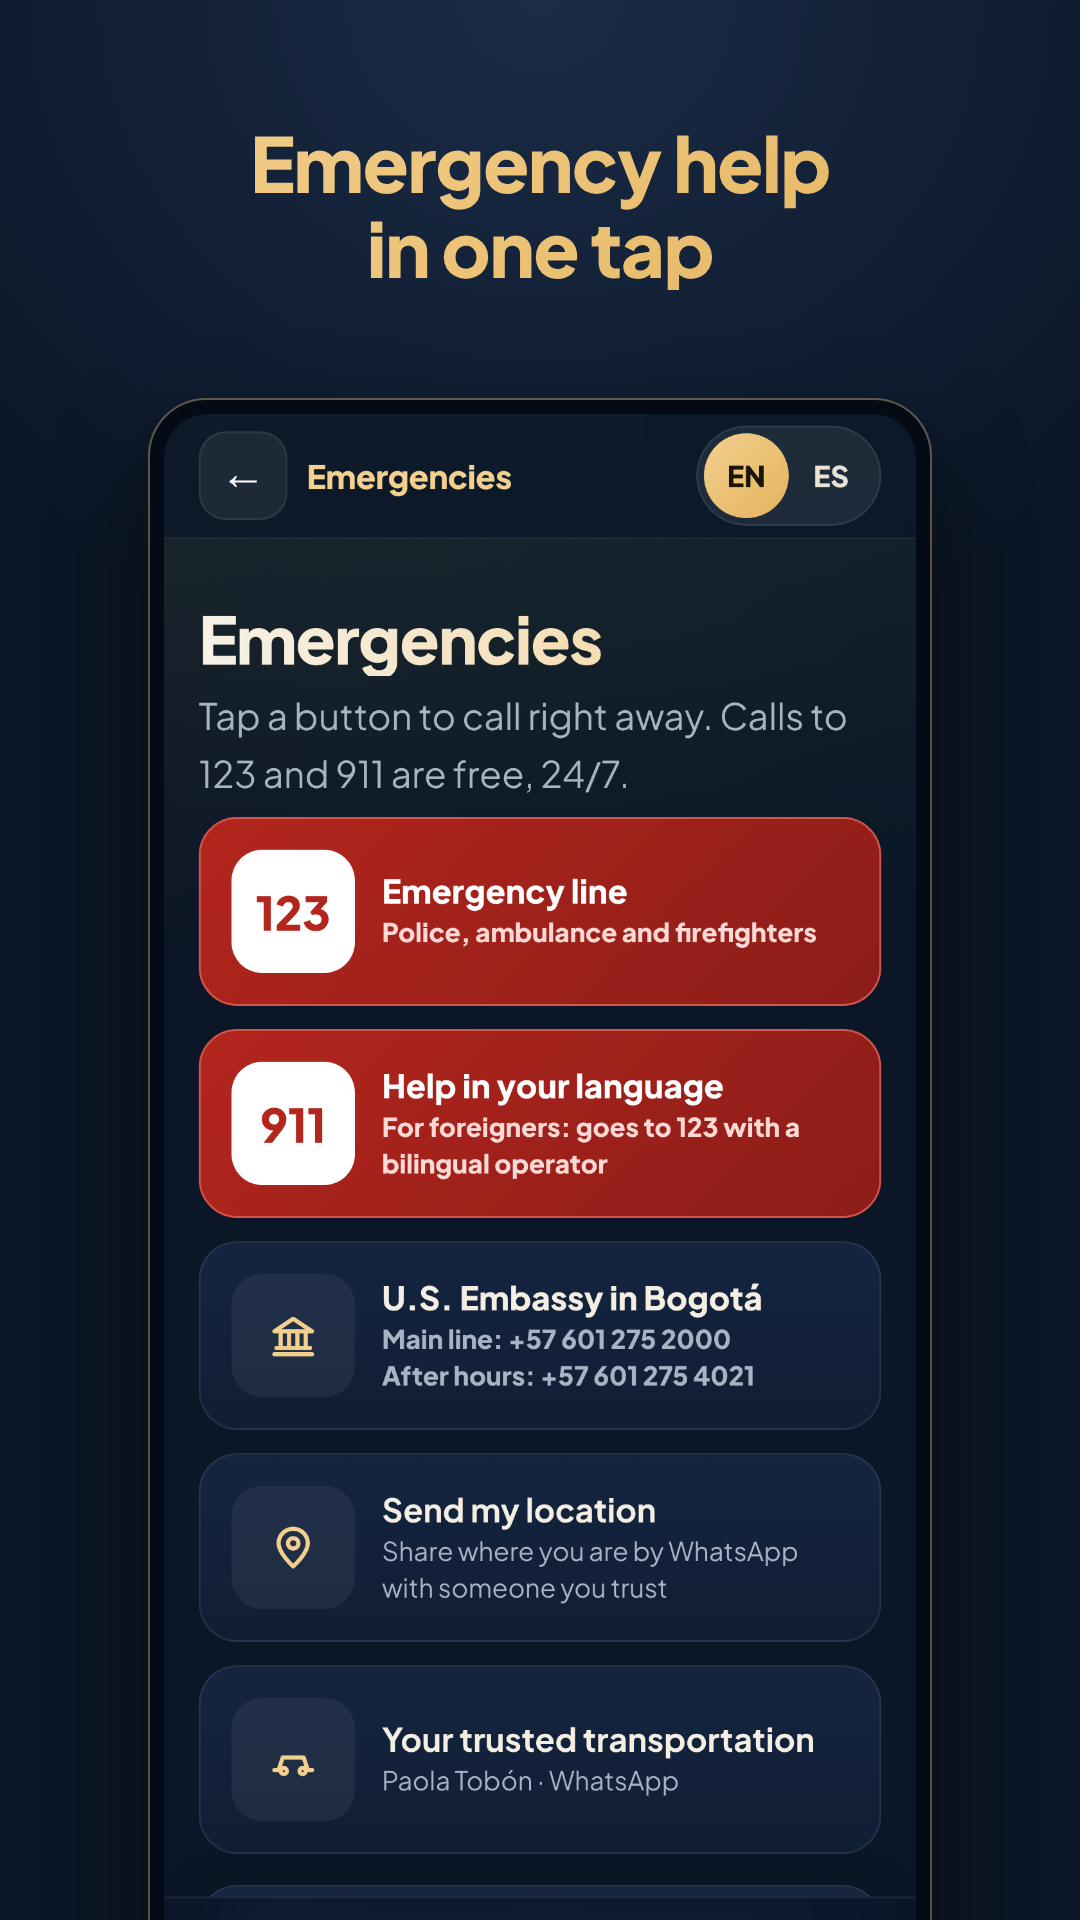
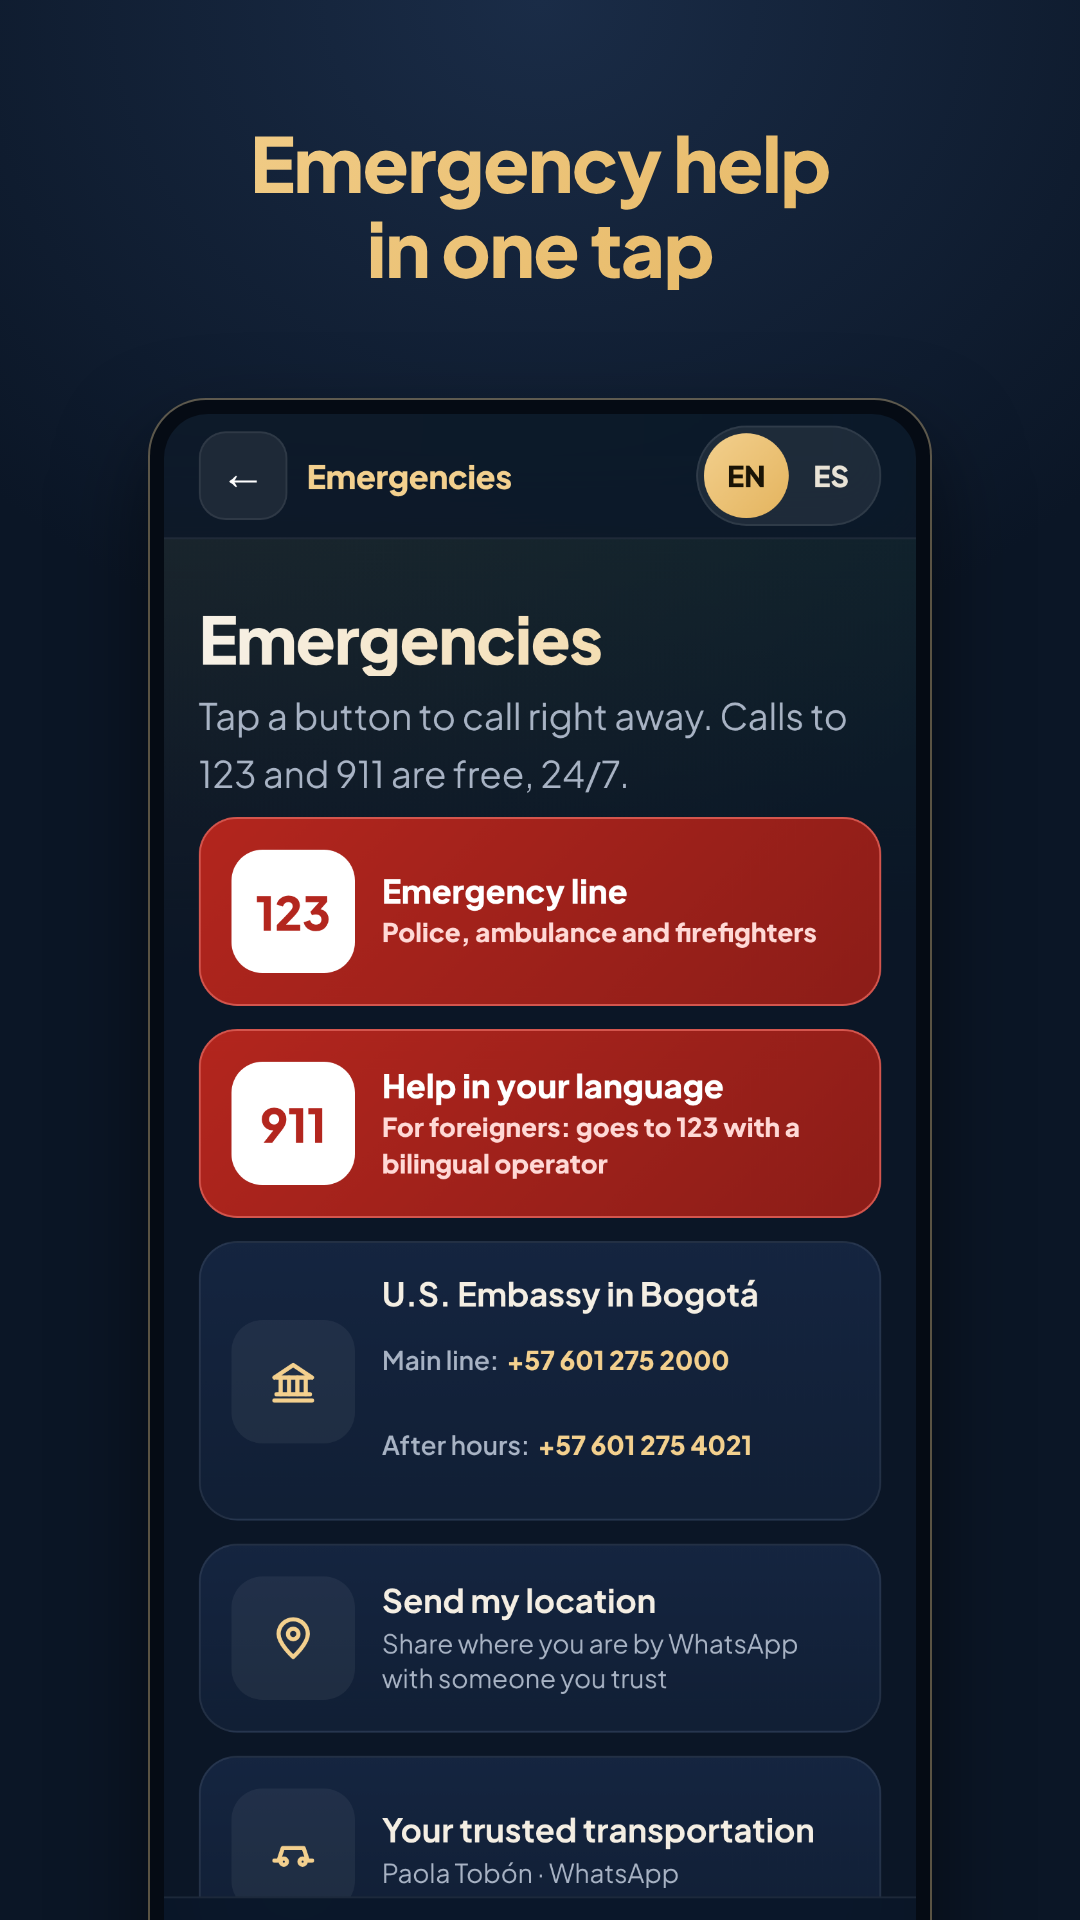
v154: cada teléfono de la Embajada llama a su propio número; capturas de SOS rehechas; Paso 5 aprobado (sin publicar)

diff --git a/app/index.html b/app/index.html
@@ -457,9 +457,13 @@ html.es-app .js-install{display:none!important}
 .sos-btn>b{flex:0 0 64px;height:64px;border-radius:16px;display:grid;place-items:center;font:800 24px "Plus Jakarta Sans",sans-serif;background:rgba(255,255,255,.06);color:var(--oro2)}
 .sos-btn,.sos-btn *{text-decoration:none!important}.sos-btn>span{flex:1;min-width:0}.sos-btn small{white-space:normal;overflow-wrap:anywhere}
 .sos-btn span b{display:block;font-size:17px;color:var(--tinta)}
-.sos-btn span b{white-space:normal;overflow-wrap:break-word;line-height:1.25}
+.sos-btn span b{white-space:normal;overflow-wrap:break-word;line-height:1.25} /* el título baja de línea (los enlaces tel: no se parten por defecto) */
 .sos-btn .tel-n{white-space:nowrap} /* cada teléfono completo en una sola línea */
-.sos-btn .tel-l{display:block} /* cada teléfono en su propia línea, con su nombre */ /* el título baja de línea (los enlaces tel: no se parten por defecto) */.sos-btn small{display:block;font-size:13.5px;color:var(--gris);line-height:1.35;margin-top:2px}
+.sos-btn .tel-l{display:block} /* cada teléfono en su propia línea, con su nombre */
+.sos-emb{cursor:default} /* Embajada: la tarjeta no llama; cada línea llama a su propio número */
+.sos-btn a.tel-l{display:flex;flex-wrap:wrap;align-items:center;column-gap:.3em;min-height:44px;padding:4px 0;white-space:normal;color:inherit;font-weight:600} /* zona para tocar de al menos 44 px */
+.sos-btn a.tel-l .tel-n{color:var(--oro2);font-weight:800}
+.sos-btn small{display:block;font-size:13.5px;color:var(--gris);line-height:1.35;margin-top:2px}
 .sos-red{background:linear-gradient(135deg,#B3261E,#8C1D18);border-color:#d4554d}
 .sos-red>b{background:#fff;color:#B3261E}.sos-red small{color:#ffd9d6}.sos-red span b{color:#fff}
 .bar .nav-sos{color:#ff8a80!important}.bar .nav-sos.on{color:#ff6659!important}
@@ -631,7 +635,7 @@ html.es-app .js-install{display:none!important}
   <p class="en">Tap a button to call right away. Calls to 123 and 911 are free, 24/7.</p><p class="es">Toca un botón para llamar de inmediato. Las llamadas al 123 y al 911 son gratis, las 24 horas.</p></div>
   <a class="sos-btn sos-red" href="tel:123"><b>123</b><span><b><span class="en">Emergency line</span><span class="es">Línea de emergencias</span></b><small><span class="en">Police, ambulance and firefighters</span><span class="es">Policía, ambulancia y bomberos</span></small></span></a>
   <a class="sos-btn sos-red" href="tel:911"><b>911</b><span><b><span class="en">Help in your language</span><span class="es">Ayuda en tu idioma</span></b><small><span class="en">For foreigners: goes to 123 with a bilingual operator</span><span class="es">Para extranjeros: pasa al 123 con una persona bilingüe</span></small></span></a>
-  <a class="sos-btn" href="tel:+576012752000"><b><svg viewBox="0 0 24 24" width="26" height="26" fill="none" stroke="currentColor" stroke-width="2" stroke-linecap="round" stroke-linejoin="round" aria-hidden="true"><path d="M3 10 12 4l9 6"/><path d="M4 10h16"/><path d="M6 10v8"/><path d="M10 10v8"/><path d="M14 10v8"/><path d="M18 10v8"/><path d="M3 21h18"/><path d="M4 18h16"/></svg></b><span><b><span class="en">U.S. Embassy in Bogotá</span><span class="es">Embajada de EE. UU. en Bogotá</span></b><small><span class="tel-l"><span class="en">Main line:</span><span class="es">Línea principal:</span> <span class="tel-n">+57 601 275 2000</span></span><span class="tel-l"><span class="en">After hours:</span><span class="es">Fuera de horario:</span> <span class="tel-n">+57 601 275 4021</span></span></small></span></a>
+  <div class="sos-btn sos-emb"><b><svg viewBox="0 0 24 24" width="26" height="26" fill="none" stroke="currentColor" stroke-width="2" stroke-linecap="round" stroke-linejoin="round" aria-hidden="true"><path d="M3 10 12 4l9 6"/><path d="M4 10h16"/><path d="M6 10v8"/><path d="M10 10v8"/><path d="M14 10v8"/><path d="M18 10v8"/><path d="M3 21h18"/><path d="M4 18h16"/></svg></b><span><b><span class="en">U.S. Embassy in Bogotá</span><span class="es">Embajada de EE. UU. en Bogotá</span></b><small><a class="tel-l" href="tel:+576012752000"><span class="en">Main line:</span><span class="es">Línea principal:</span> <span class="tel-n">+57 601 275 2000</span></a><a class="tel-l" href="tel:+576012754021"><span class="en">After hours:</span><span class="es">Fuera de horario:</span> <span class="tel-n">+57 601 275 4021</span></a></small></span></div>
   <button class="sos-btn sos-loc" type="button" id="sos-loc"><b><svg viewBox="0 0 24 24" width="26" height="26" fill="none" stroke="currentColor" stroke-width="2" stroke-linecap="round" stroke-linejoin="round"><path d="M12 21s-7-6.2-7-11a7 7 0 0 1 14 0c0 4.8-7 11-7 11z"/><circle cx="12" cy="10" r="2.5"/></svg></b><span><b><span class="en">Send my location</span><span class="es">Enviar mi ubicación</span></b><small id="sos-loc-msg"><span class="en">Share where you are by WhatsApp with someone you trust</span><span class="es">Comparte dónde estás por WhatsApp con alguien de confianza</span></small></span></button>
   <a class="sos-btn" href="https://wa.me/573194635142" target="_blank" rel="noopener"><b><svg viewBox="0 0 24 24" width="26" height="26" fill="none" stroke="currentColor" stroke-width="2" stroke-linecap="round" stroke-linejoin="round"><path d="M3 17h2l2-6h10l2 6h2"/><circle cx="7.5" cy="17.5" r="1.5"/><circle cx="16.5" cy="17.5" r="1.5"/></svg></b><span><b><span class="en">Your trusted transportation</span><span class="es">Tu transporte de confianza</span></b><small><span class="en">Paola Tobón · WhatsApp</span><span class="es">Paola Tobón · WhatsApp</span></small></span></a>
   <div class="box"><h3 class="en">What to say when you call</h3><h3 class="es">Qué decir cuando llames</h3>

diff --git a/app/sw.js b/app/sw.js
@@ -1,5 +1,5 @@
 // Cambie este número cada vez que publique una versión nueva.
-const VERSION = 'medellin-v153';
+const VERSION = 'medellin-v154';
 const BASE = VERSION + '-base';
 const FOTOS = VERSION + '-fotos';
 const FILES = ['./', './index.html', './manifest.json', './icon.svg', './portada.jpg', './apple-touch-icon.png', './icon-192.png', './icon-512.png'];

diff --git a/CLAUDE.md b/CLAUDE.md
@@ -59,10 +59,13 @@ Cambios de la v150 (sobre la v149):
 
 Versión anterior: v149 (`medellin-lock-1795281462731`).
 
-**Lista para el próximo .zip de Netlify (v153, sin publicar; incluye la v151 y la v152):**
+**Lista para el próximo .zip de Netlify (v154, sin publicar; incluye la v151, v152 y v153):**
+- SOS, Embajada: cada número llama a su propio teléfono. La tarjeta es un `<div class="sos-btn sos-emb">` (no llama) y
+  cada línea es un enlace `a.tel-l` (`tel:+576012752000` y `tel:+576012754021`), con el número en dorado y una zona
+  para tocar de al menos 44 px de alto. Probado con toques simulados en los dos idiomas y en 320/360/390 px.
 - SOS: cada teléfono de la Embajada va en su propia línea con su nombre ("Línea principal:" / "Fuera de horario:";
   "Main line:" / "After hours:"; clase `tel-l`) y ningún número se parte (clase `tel-n`). En celulares pequeños el
-  nombre queda arriba de su número. El botón entero llama a la línea principal.
+  nombre queda arriba de su número.
 - Capturas de SOS (español e inglés) rehechas. Imagen destacada con frases más grandes (`tienda/destacada/`).
 - Sin emojis en la app: la bandera de EE. UU. del botón de la Embajada (SOS) es ahora un ícono de línea (edificio con
   columnas) y el 📍 del botón "Cerca de mí" del menú es un pin de línea, del mismo estilo que los demás íconos.
@@ -97,8 +100,8 @@ Hecho:
 - Paso 1: decisión de cobro (Opción 1).
 - Paso 2: candado en modo tienda y rediseño del candado (publicado en la web con la v149).
 - Paso 3: `build.mjs` listo para `assetlinks.json` (el archivo se crea en el Paso 6).
-- Paso 5 (en curso): las 7 capturas en español aprobadas (`tienda/capturas/es/`, v151, modo tienda, 1080 × 1920).
-  Capturas en inglés (`tienda/capturas/en/`) e imagen destacada 1024 × 500 en español e inglés (`tienda/destacada/`): hechas, en revisión.
+- Paso 5: aprobado. 7 capturas en español (`tienda/capturas/es/`) y 7 en inglés (`tienda/capturas/en/`), modo tienda,
+  1080 × 1920; imagen destacada 1024 × 500 en español e inglés (`tienda/destacada/`). Capturas de SOS rehechas con la v154.
 - Paso 4: textos de la tienda aprobados en `tienda/textos-tienda-es.txt` y `tienda/textos-tienda-en.txt`.
   Nombres: "Medellín a un clic – Guía" / "Medellín a un clic – Guide"; se le habla de "tú"; sin mencionar compra ni precio.
   La marca es "Medellín a un clic" (con "clic", correcto en español) en todas partes. Única excepción aprobada: la primera

diff --git a/LEEME-PRIMERO.md b/LEEME-PRIMERO.md
@@ -59,10 +59,13 @@ Cambios de la v150 (sobre la v149):
 
 Versión anterior: v149 (`medellin-lock-1795281462731`).
 
-**Lista para el próximo .zip de Netlify (v153, sin publicar; incluye la v151 y la v152):**
+**Lista para el próximo .zip de Netlify (v154, sin publicar; incluye la v151, v152 y v153):**
+- SOS, Embajada: cada número llama a su propio teléfono. La tarjeta es un `<div class="sos-btn sos-emb">` (no llama) y
+  cada línea es un enlace `a.tel-l` (`tel:+576012752000` y `tel:+576012754021`), con el número en dorado y una zona
+  para tocar de al menos 44 px de alto. Probado con toques simulados en los dos idiomas y en 320/360/390 px.
 - SOS: cada teléfono de la Embajada va en su propia línea con su nombre ("Línea principal:" / "Fuera de horario:";
   "Main line:" / "After hours:"; clase `tel-l`) y ningún número se parte (clase `tel-n`). En celulares pequeños el
-  nombre queda arriba de su número. El botón entero llama a la línea principal.
+  nombre queda arriba de su número.
 - Capturas de SOS (español e inglés) rehechas. Imagen destacada con frases más grandes (`tienda/destacada/`).
 - Sin emojis en la app: la bandera de EE. UU. del botón de la Embajada (SOS) es ahora un ícono de línea (edificio con
   columnas) y el 📍 del botón "Cerca de mí" del menú es un pin de línea, del mismo estilo que los demás íconos.
@@ -97,8 +100,8 @@ Hecho:
 - Paso 1: decisión de cobro (Opción 1).
 - Paso 2: candado en modo tienda y rediseño del candado (publicado en la web con la v149).
 - Paso 3: `build.mjs` listo para `assetlinks.json` (el archivo se crea en el Paso 6).
-- Paso 5 (en curso): las 7 capturas en español aprobadas (`tienda/capturas/es/`, v151, modo tienda, 1080 × 1920).
-  Capturas en inglés (`tienda/capturas/en/`) e imagen destacada 1024 × 500 en español e inglés (`tienda/destacada/`): hechas, en revisión.
+- Paso 5: aprobado. 7 capturas en español (`tienda/capturas/es/`) y 7 en inglés (`tienda/capturas/en/`), modo tienda,
+  1080 × 1920; imagen destacada 1024 × 500 en español e inglés (`tienda/destacada/`). Capturas de SOS rehechas con la v154.
 - Paso 4: textos de la tienda aprobados en `tienda/textos-tienda-es.txt` y `tienda/textos-tienda-en.txt`.
   Nombres: "Medellín a un clic – Guía" / "Medellín a un clic – Guide"; se le habla de "tú"; sin mencionar compra ni precio.
   La marca es "Medellín a un clic" (con "clic", correcto en español) en todas partes. Única excepción aprobada: la primera
